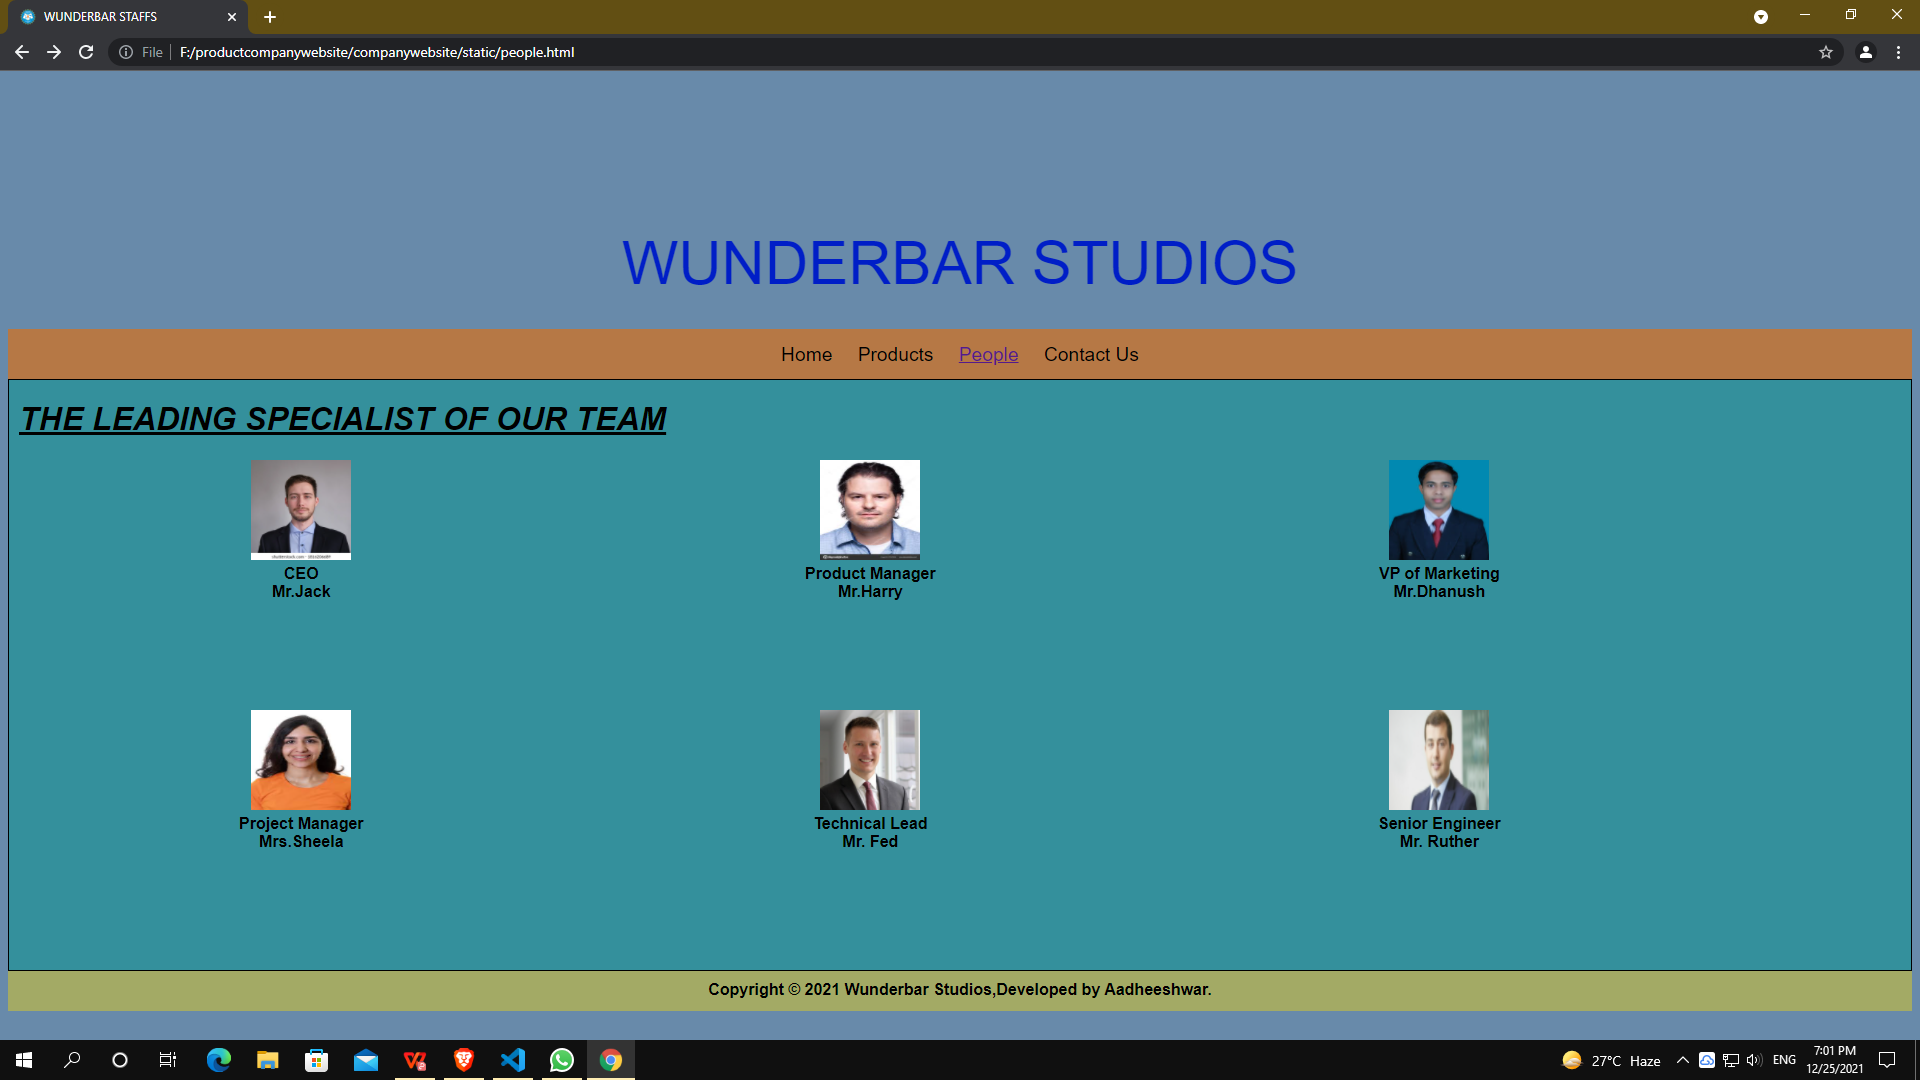
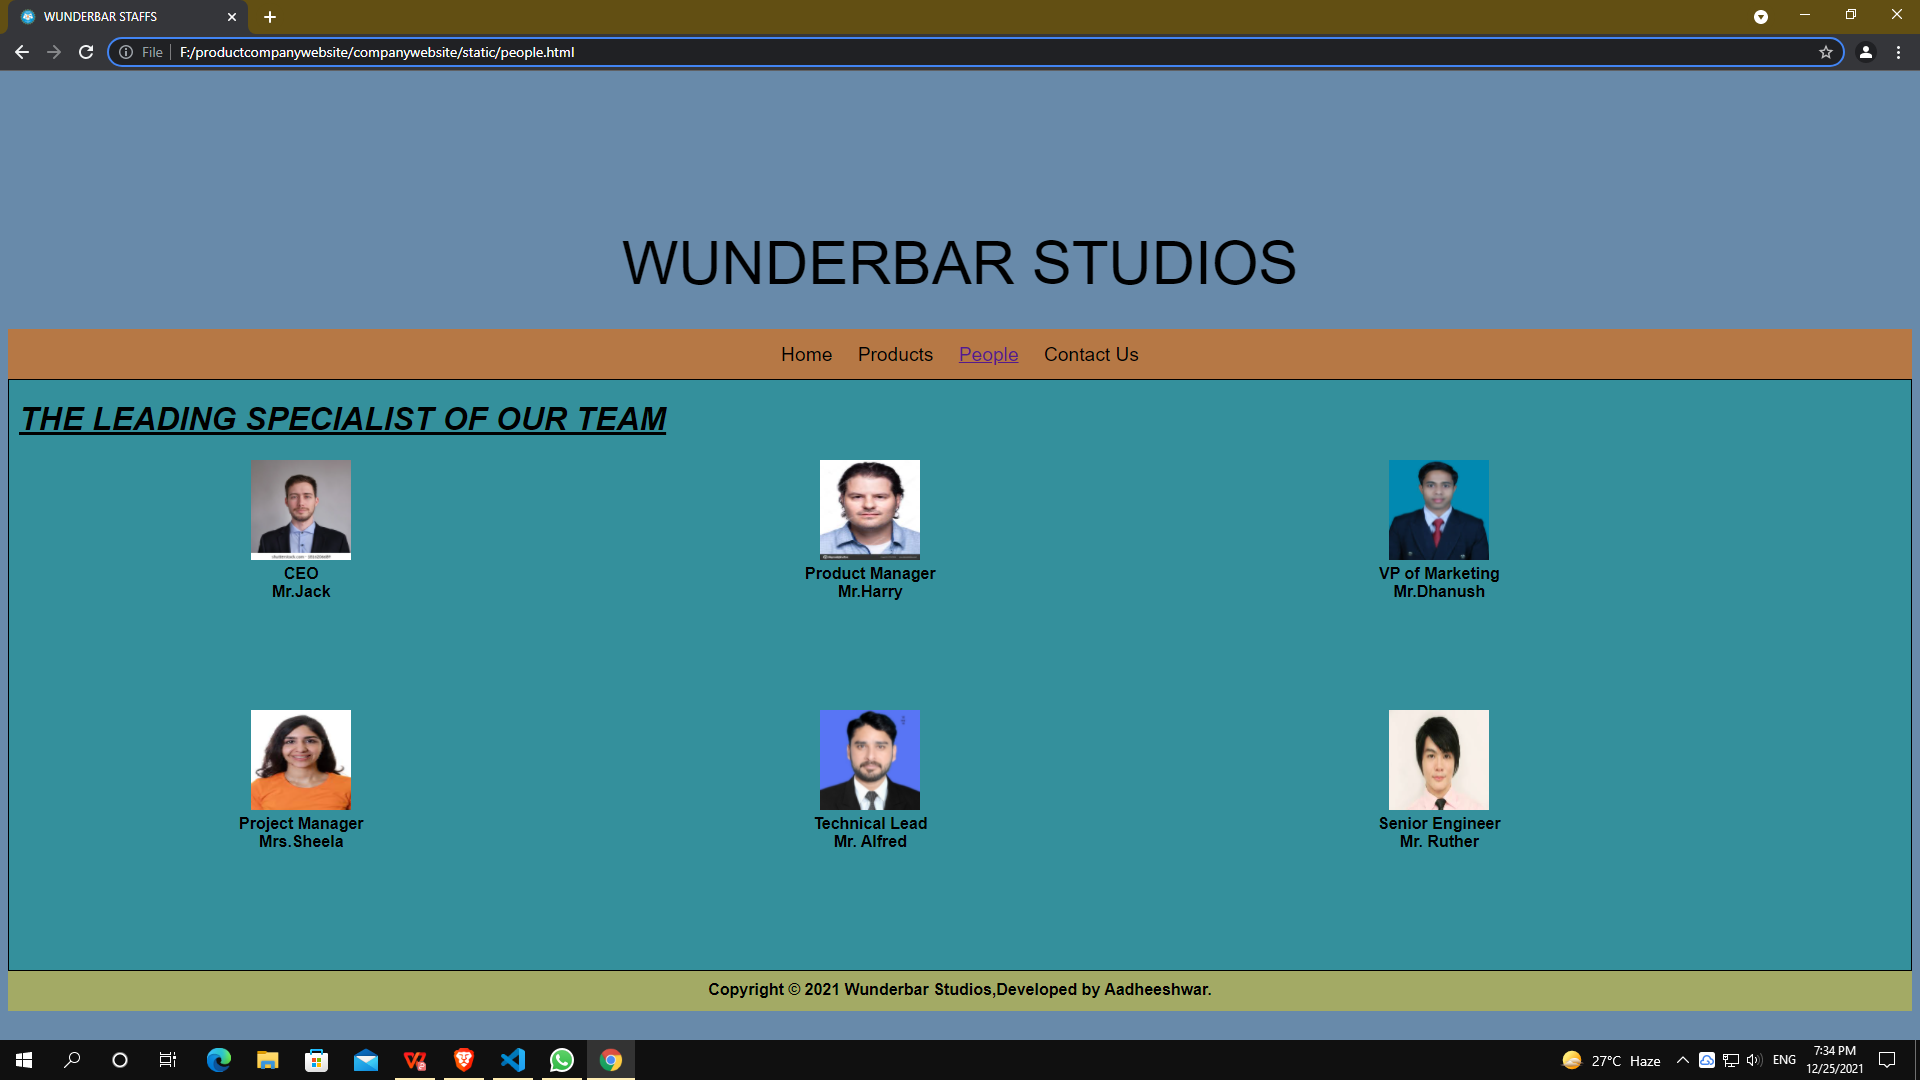
PRODUCT

diff --git a/companywebsite/static/people.html b/companywebsite/static/people.html
@@ -52,15 +52,15 @@ href="./people.html">People</a></div>
  <div class="productitem">
  <div class="itemimage">
  <img
-src="https://www.ifo.de/sites/default/files/styles/1_to_1__600x600/public/2019-04/cvfoto-brandt.jpg?h=43067cb4&itok=mlhUf64T&c=1555053663" alt="product image">
+src="https://i.pinimg.com/originals/c3/33/27/c333273fcfc3198e93df380c0cfc0437.jpg" alt="product image">
  </div>
  <div class="itemname">Technical Lead</div>
- <div class="itemprice">Mr. Fed</div>
+ <div class="itemprice">Mr. Alfred</div>
  </div>
  <div class="productitem">
  <div class="itemimage">
  <img
-src="https://www.hrmagazine.co.uk/media/hpids2xw/article-images-2f171546-2falan_price.jpg?anchor=center&mode=crop&width=1002&height=564&bgcolor=White&rnd=132555231709400000" alt="product image">
+src="https://encrypted-tbn0.gstatic.com/images?q=tbn:ANd9GcRHXHMvRu56yf6cAJAnaNEVwX3xjVqNsz1Veg&usqp=CAU">
  </div>
  <div class="itemname">Senior Engineer</div>
  <div class="itemprice">Mr. Ruther </div>

diff --git a/README.md b/README.md
@@ -452,7 +452,7 @@ body {
 ![output](product.png)
 
 ### People Page:
-![output](people.png)
+![output](PEOPLE.png)
 
 ### Contact Page:
 ![output](contact.png)
